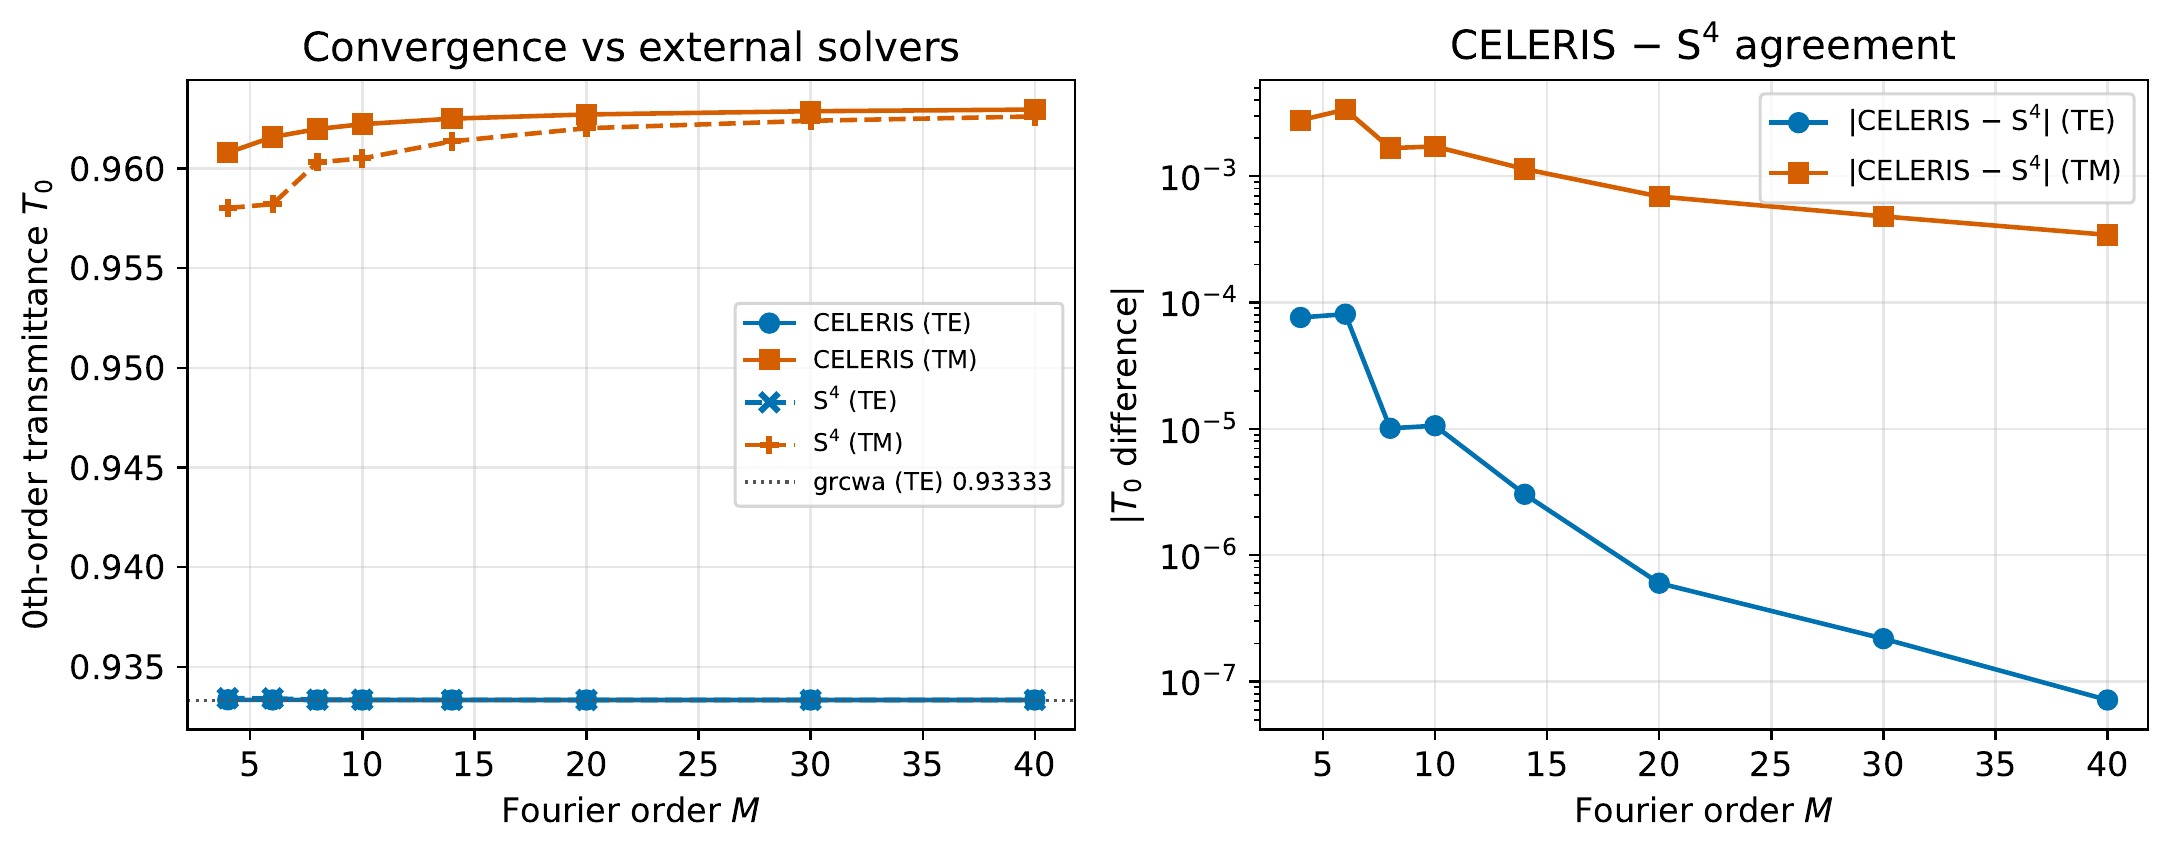
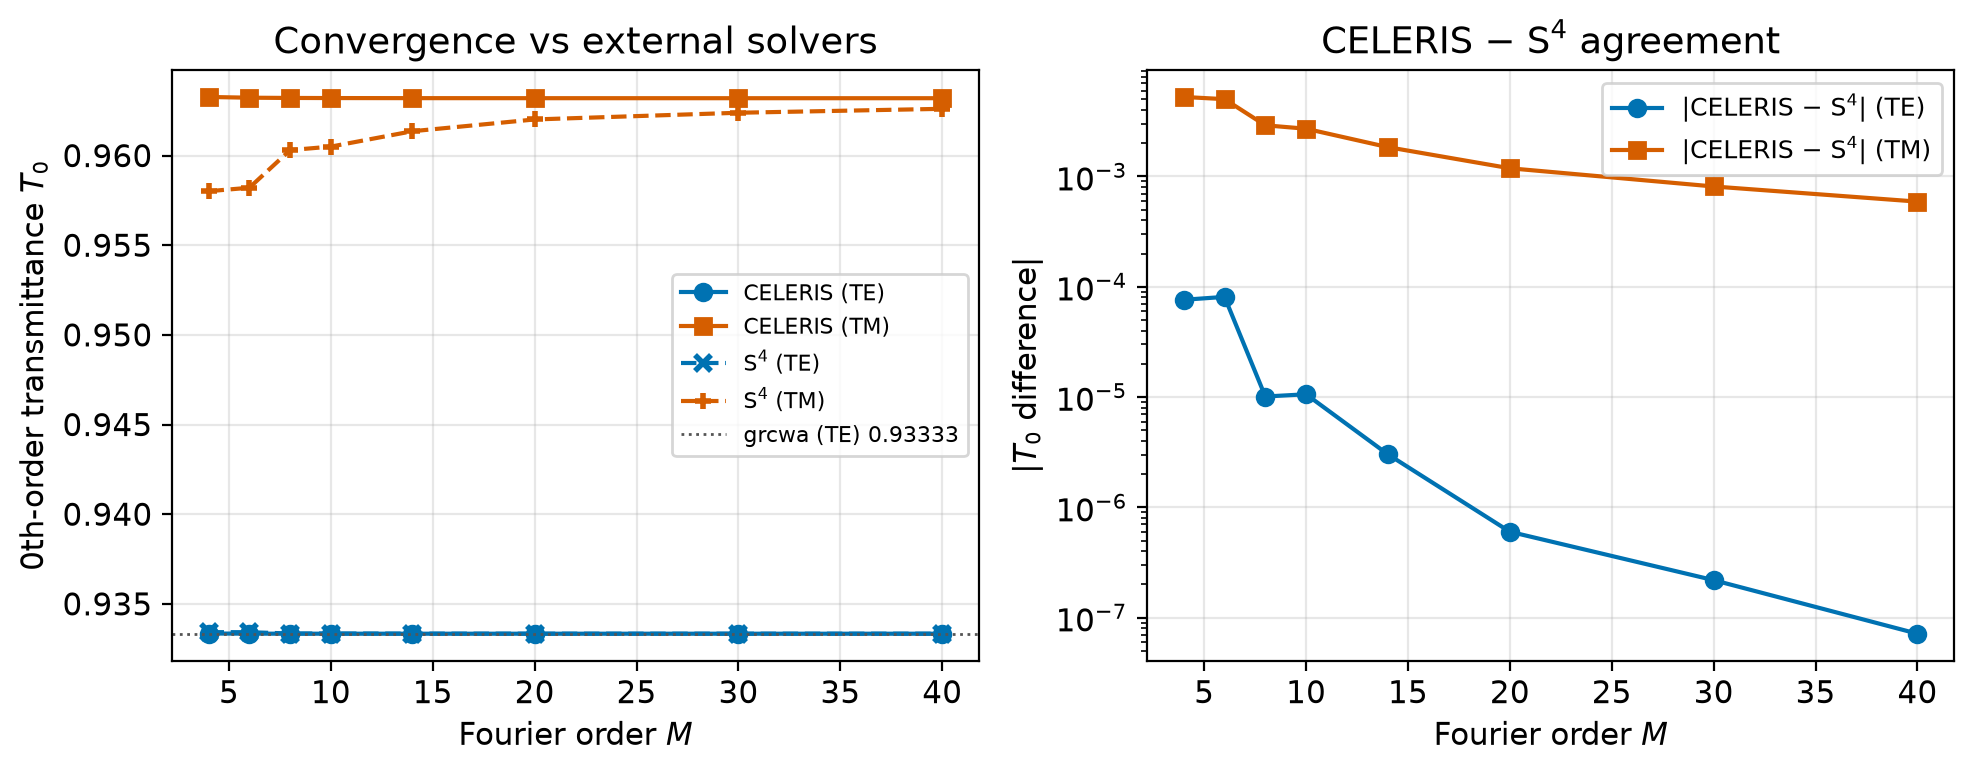
paper: regenerate fig_validation against S4 after the TM fix (#18)
The old figure predated the TM factorization fix (#8/#10), so its
CELERIS TM curve was wrong. Regenerated with make_figures.py against a
local S4 build (phoebe-p/S4 @ 9569f5e, MKL LAPACK):

  TE |CELERIS - S4| at M=40: 7.2e-8 (paper claim of 7e-8 holds)
  TM: CELERIS 0.963226 (M=6) -> 0.963197 (M=40);
      S4 default settings 0.958205 -> 0.962606, converging slowly

Caption now states the TM behaviour; the stale-figure TODO is removed.

diff --git a/paper/paper.md b/paper/paper.md
@@ -147,14 +147,12 @@ with CPU only, runs a fast subset of the suite on every push and pull request,
 and runs the full suite nightly. `paper/reproduce_all.sh` regenerates every
 number and figure in this paper.
 
-<!-- AUTHOR: fig_validation.png predates the TM factorization fix (issue #8, PR #10):
-     its CELERIS TM curve is stale. Regenerate with S4 installed
-     (paper/figures/make_figures.py) before submission. -->
-
 ![CELERIS versus Stanford S$^4$ on an identical freestanding $n=1.5$ grating
 ($\Lambda=0.3\,\mu$m, fill 0.5, thickness $0.5\,\mu$m, $\lambda=0.5\,\mu$m).
 Left: zeroth-order transmittance against Fourier order. Right: the CELERIS–S$^4$
-TE difference falls to $7\times10^{-8}$.\label{fig:validation}](figures/fig_validation.png)
+TE difference falls to $7\times10^{-8}$. In TM, CELERIS (Li's factorization) is within
+$3\times10^{-5}$ of its $M=40$ value by $M=6$, while S$^4$ with default settings
+approaches the same value slowly ($6\times10^{-4}$ apart at $M=40$).\label{fig:validation}](figures/fig_validation.png)
 
 # Research impact statement
 
